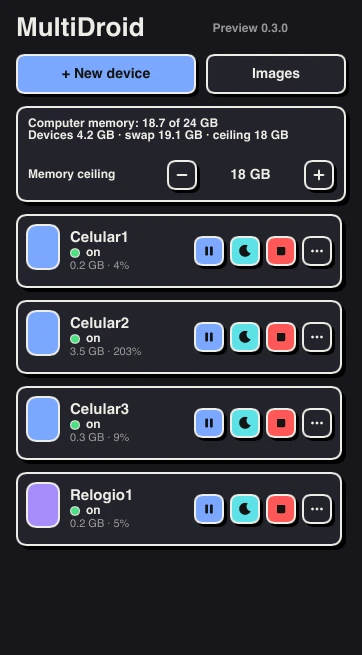
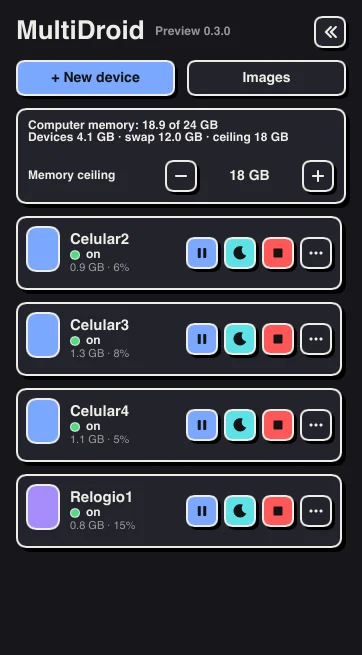
Capturas atualizadas no site e no README com a nova interface
- Imagens atualizadas refletindo as mudanças recentes da interface
  (barra inferior de botões no quadro e painel lateral recolhível)
- Aparelhos ativos com telas reais (relógio, contatos e tela inicial)
- Site: desk-5 e panel-4 no lugar de desk-4 e panel-3, garantindo
  invalidação de cache no Cloudflare/nginx, com arquivos .json de metadados
- README e site com textos sincronizados com o novo layout dos controles

diff --git a/site/index.html b/site/index.html
@@ -70,7 +70,7 @@
     <p class="note">Linux also as <a href="https://github.com/iramarfalcao/MultiDroid/releases/download/v0.3.0-alpha.3/MultiDroid-Preview-0.3.0-alpha.3-linux-x86_64.rpm">.rpm</a> (Fedora, openSUSE) and <a href="https://github.com/iramarfalcao/MultiDroid/releases/download/v0.3.0-alpha.3/MultiDroid-Preview-0.3.0-alpha.3-linux-x86_64.AppImage">.AppImage</a> (any distribution). <a href="https://github.com/iramarfalcao/MultiDroid/releases">All versions</a></p>
     <p class="note">Free and open source (GPL-3.0). The Mac app is signed and notarized by Apple; version 0.2 is in Brazilian Portuguese. The Windows and Linux preview is version 0.3, in English and Portuguese: it is not signed yet, so Windows may show a SmartScreen warning the first time. On Windows it needs the Windows Hypervisor Platform turned on. <a href="https://github.com/iramarfalcao/MultiDroid">Source on GitHub</a></p>
     <figure class="shot shot--hero">
-      <img src="assets/desk-4.webp" width="1710" height="890" alt="MultiDroid on a Mac with three Android phones and a watch switched on at the same time, next to the panel with each device's memory and CPU">
+      <img src="assets/desk-5.webp" width="1710" height="890" alt="MultiDroid on a Mac with three Android phones and a watch switched on at the same time, next to the panel with each device's memory and CPU">
       <figcaption>Three phones and a watch on at the same time, on a Mac with 24 GB. Shown: the 0.3 preview.</figcaption>
     </figure>
   </section>
@@ -95,7 +95,7 @@
         <p class="body">Power on, pause, hibernate and switch off one device or a whole group at once.</p>
       </div>
       <figure class="shot shot--panel">
-        <img src="assets/panel-3.webp" width="362" height="655" alt="The MultiDroid panel with the Mac's memory, the memory ceiling, and three phones and a watch with their memory and CPU" loading="lazy" decoding="async">
+        <img src="assets/panel-4.webp" width="362" height="655" alt="The MultiDroid panel with the Mac's memory, the memory ceiling, and three phones and a watch with their memory and CPU" loading="lazy" decoding="async">
       </figure>
     </div>
   </section>
@@ -106,7 +106,7 @@
       <ul class="cards">
         <li class="card card--pink"><h3>Free grid</h3><p>Drag a device by its title and resize it by the corner, on a 24-column grid. Or let MultiDroid arrange them, all together or by group.</p></li>
         <li class="card card--yellow"><h3>One desk per window</h3><p>Open another desk with ⌘N and keep work and personal accounts apart. Hide the panel with ⌘0.</p></li>
-        <li class="card card--green"><h3>Controls on every frame</h3><p>Back, home, recents, volume, rotate, type, screenshot, pause, hibernate and switch off, right beside each screen.</p></li>
+        <li class="card card--green"><h3>Controls on every frame</h3><p>Back, home, recents, volume, rotate, type, screenshot, pause, hibernate and switch off, right below each screen.</p></li>
         <li class="card card--cyan"><h3>Copies cost nothing</h3><p>Duplicate a device in an instant. The copy uses APFS clonefile, so it takes no disk space until the two start to differ.</p></li>
       </ul>
     </div>

diff --git a/README.md b/README.md
@@ -20,7 +20,7 @@ O MultiDroid não automatiza contas nem burla a verificação de integridade dos
 
 ![A mesa do MultiDroid com três celulares e um relógio ligados ao mesmo tempo, ao lado do painel com a memória e a CPU de cada aparelho](docs/screenshots/mesa-ligada.webp)
 
-*A mesa com três celulares e um relógio ligados ao mesmo tempo, num Mac de 24 GB. Cada quadro tem os botões do aparelho ao lado da tela: voltar, início, recentes, volume, girar, captura, pausar, hibernar e desligar; o ícone no canto de cima organiza a mesa para caber na janela.*
+*A mesa com três celulares e um relógio ligados ao mesmo tempo, num Mac de 24 GB. Cada quadro tem os botões do aparelho na barra inferior: voltar, início, recentes, volume, girar, captura, pausar, hibernar e desligar; o ícone no canto de cima organiza a mesa para caber na janela.*
 
 <table>
 <tr>
@@ -33,7 +33,7 @@ O MultiDroid não automatiza contas nem burla a verificação de integridade dos
 </tr>
 </table>
 
-Capturas da MultiDroid Preview 0.3 (versão Rust, em inglês), de 2026-10-21: a interface real desenhada fora da tela pelo mesmo renderizador do app (`rust/app/examples/capturas.rs`), com as telas e a memória e a CPU medidas de quatro aparelhos ligados (Android 13 com Google Play e Wear OS 13). A 0.2, a versão publicada, é em português e muda pouco no visual.
+Capturas da MultiDroid Preview 0.3 (versão Rust, em inglês), de 2026-10-22: a interface real desenhada fora da tela pelo mesmo renderizador do app (`rust/app/examples/capturas.rs`), com as telas e a memória e a CPU medidas de quatro aparelhos ligados (Android 13 com Google Play e Wear OS 13). A 0.2, a versão publicada, é em português e muda pouco no visual.
 
 ## Funcionalidades
 
